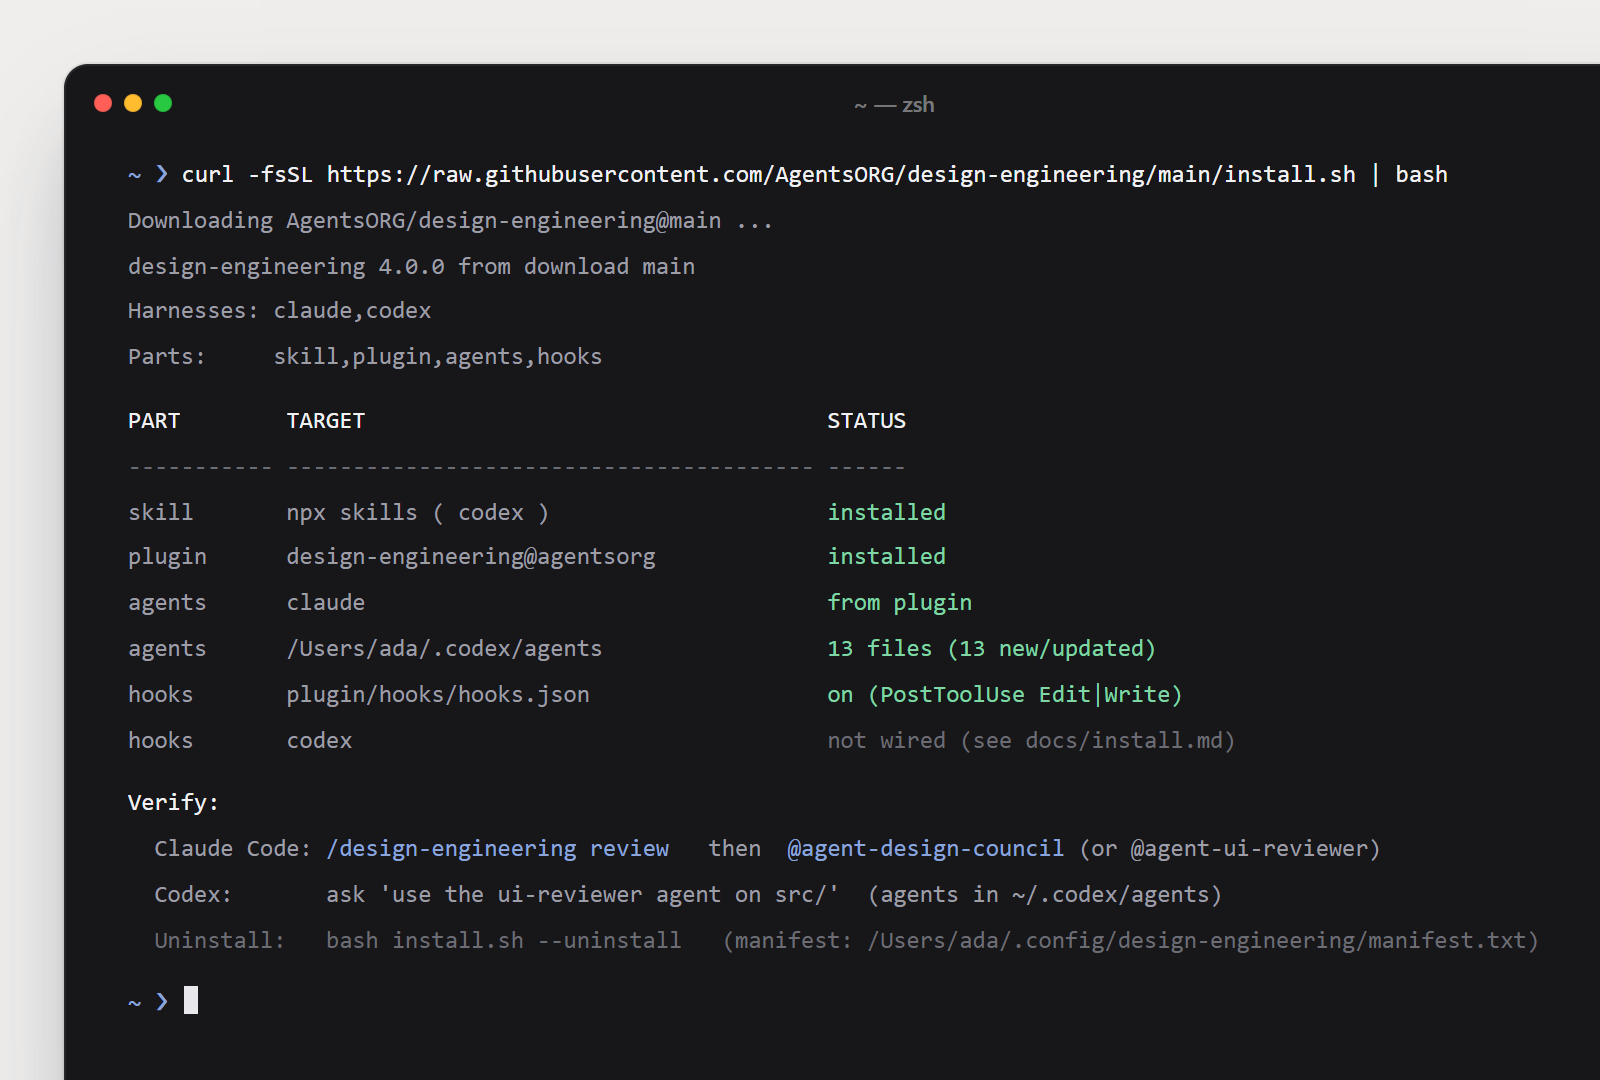
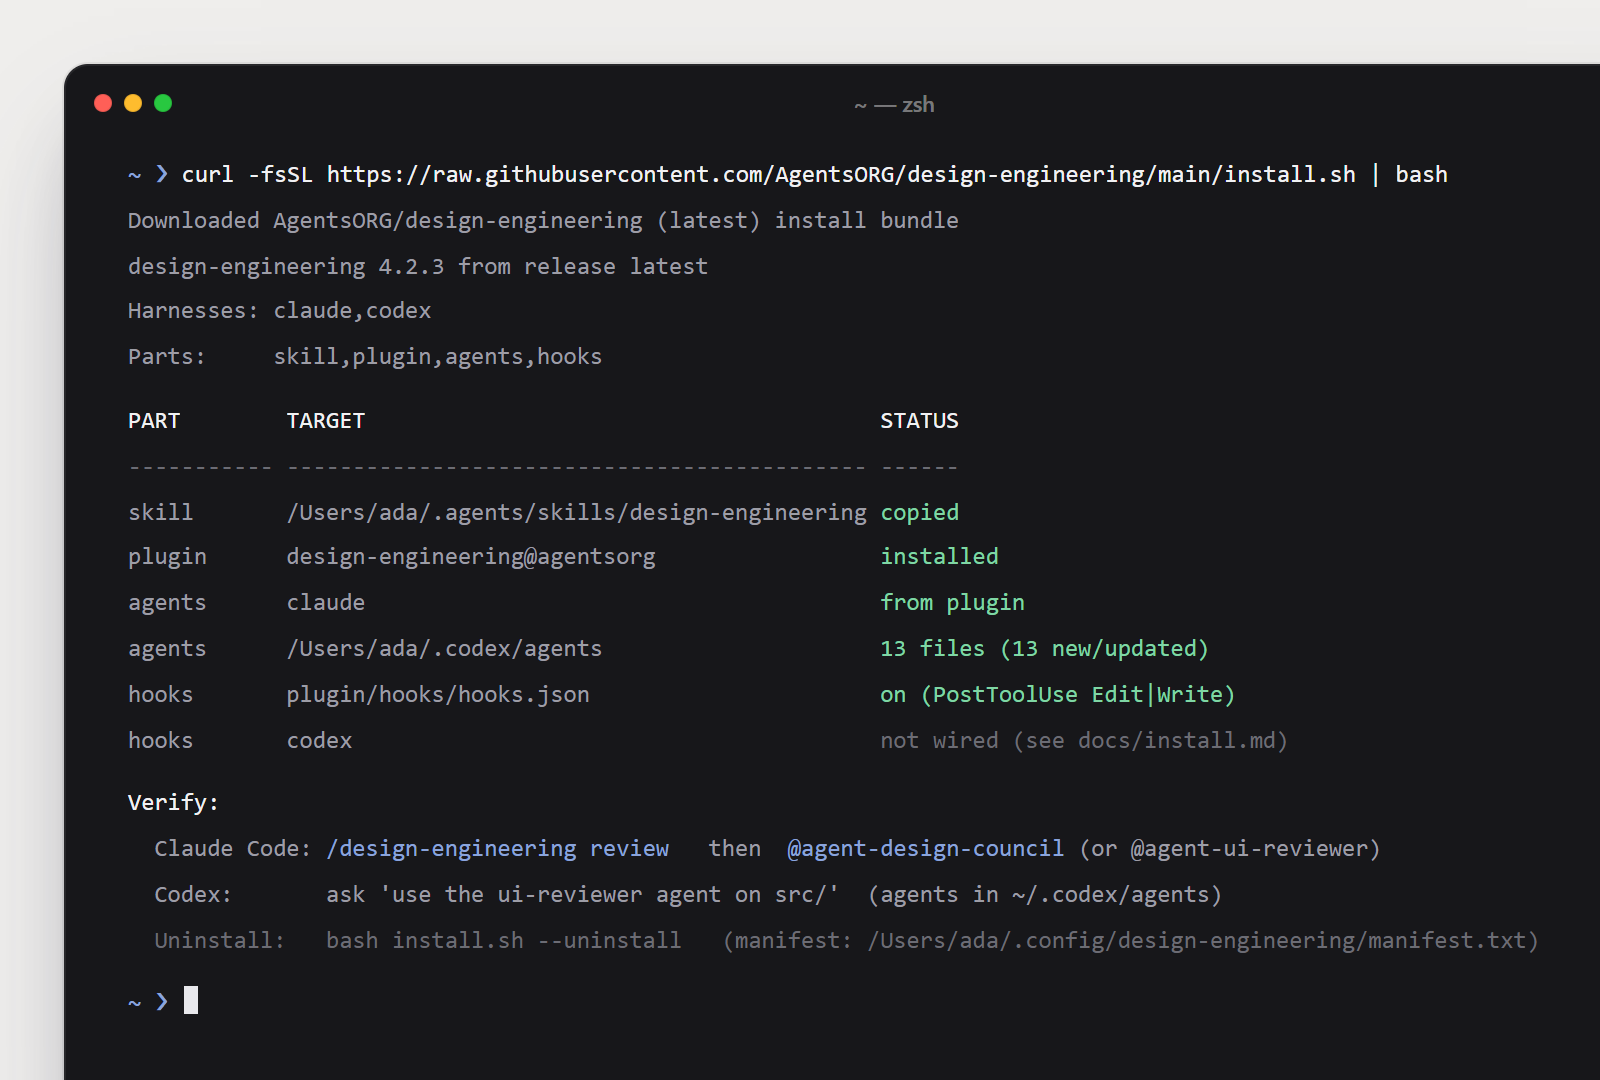
4.2.3: shadcn install docs, current installer still, one-step plugin line, dead links (#22)

diff --git a/docs/readme/stage/examples/de-install/index.tsx b/docs/readme/stage/examples/de-install/index.tsx
@@ -10,9 +10,9 @@ import '../_de/de.css'
 // Corner bleed: inset top-left, off the right; the window ends a gutter
 // under the caret.
 const CMD = 'curl -fsSL https://raw.githubusercontent.com/AgentsORG/design-engineering/main/install.sh | bash'
-const row = (p: string, t: string, s = '') => `${p.padEnd(11)} ${t.padEnd(40)} ${s}`
+const row = (p: string, t: string, s = '') => `${p.padEnd(11)} ${t.padEnd(44)} ${s}`
 const ROWS: [string, string, string][] = [
-  ['skill', 'npx skills ( codex )', 'installed'],
+  ['skill', '/Users/ada/.agents/skills/design-engineering', 'copied'],
   ['plugin', 'design-engineering@agentsorg', 'installed'],
   ['agents', 'claude', 'from plugin'],
   ['agents', '/Users/ada/.codex/agents', '13 files (13 new/updated)'],
@@ -27,13 +27,13 @@ export default function Install() {
         <Window chrome="terminal" title="~ — zsh" className="de-win" style={{ width: 830, height: 560 }}>
           <div className="ss-term de-term">
             <Prompt path="~">{CMD}</Prompt>
-            <div>Downloading AgentsORG/design-engineering@main ...</div>
-            <div>design-engineering 4.0.0 from download main</div>
+            <div>Downloaded AgentsORG/design-engineering (latest) install bundle</div>
+            <div>design-engineering 4.2.3 from release latest</div>
             <div>Harnesses: claude,codex</div>
             <div>Parts:     skill,plugin,agents,hooks</div>
             <div className="gap" />
             <div className="w">{row('PART', 'TARGET', 'STATUS')}</div>
-            <div className="dim">{row('-'.repeat(11), '-'.repeat(40), '-'.repeat(6))}</div>
+            <div className="dim">{row('-'.repeat(11), '-'.repeat(44), '-'.repeat(6))}</div>
             {ROWS.map(([p, t, s], i) => (
               <div key={i}>{row(p, t)}<span className={s.startsWith('not') ? 'dim' : 'ok'}>{s}</span></div>
             ))}

diff --git a/docs/install.md b/docs/install.md
@@ -33,7 +33,7 @@ curl -fsSL https://raw.githubusercontent.com/AgentsORG/design-engineering/main/i
 | `--with-companions` | `-WithCompanions` | Also install the Agentation skill |
 | `--uninstall` | `-Uninstall` | Remove what a previous run installed |
 
-By default the installer downloads the latest release's install bundle (`design-engineering-install.zip`, about 1 MB: the skill, agents, hooks and manifests) and copies the skill from it, so it never clones the whole repository. Pin a release with `DE_REF=v4.2.1` (`$env:DE_REF = 'v4.2.1'` in PowerShell), or use a branch with `DE_REF=main`, which downloads the full repo snapshot. Set `DE_USE_SKILLS_CLI=1` to install the skill through `npx skills` instead. Run either script from a checkout and it installs that checkout instead of downloading.
+By default the installer downloads the latest release's install bundle (`design-engineering-install.zip`, about 1 MB: the skill, agents, hooks and manifests) and copies the skill from it, so it never clones the whole repository. Pin a release with `DE_REF=v4.2.3` (`$env:DE_REF = 'v4.2.1'` in PowerShell), or use a branch with `DE_REF=main`, which downloads the full repo snapshot. Set `DE_USE_SKILLS_CLI=1` to install the skill through `npx skills` instead. Run either script from a checkout and it installs that checkout instead of downloading.
 
 The installer detects a harness by its CLI on `PATH` or its config folder in your home directory. It is idempotent: a second run changes only what differs. Before it replaces a file it did not write, it copies the original to `~/.config/design-engineering/backups/`. It backs up `settings.json` next to itself before merging the hook. It never reads or writes credentials. Everything it writes is listed in `~/.config/design-engineering/manifest.txt`, and `--uninstall` removes exactly those entries and puts back the copies it backed up.
 
@@ -75,7 +75,7 @@ claude plugin marketplace add AgentsORG/design-engineering
 claude plugin install design-engineering@agentsorg -s user
 ```
 
-Inside a session the same thing is `/plugin marketplace add AgentsORG/design-engineering` then `/plugin install design-engineering@agentsorg`. To pin a release, add the marketplace as `https://github.com/AgentsORG/design-engineering.git#v4.0.0`.
+Inside a session it is one step on Claude Code 2.1.275 or later: `/plugin install design-engineering --marketplace AgentsORG/design-engineering` (or `/plugin marketplace add AgentsORG/design-engineering`, then `/plugin install design-engineering@agentsorg`). To pin a release, add the marketplace as `https://github.com/AgentsORG/design-engineering.git#v4.0.0`.
 
 ### Agents per harness
 
@@ -118,6 +118,19 @@ claude mcp add --transport http -s user design-engineering http://localhost:2000
 ```
 
 For Codex, Cursor, Gemini CLI and OpenCode, add an HTTP MCP server named `design-engineering` with the URL `http://localhost:2000/eve/v1/mcp` in that harness's MCP settings.
+
+### shadcn registry
+
+The same pieces ship as shadcn registry items, for projects that already use the shadcn CLI. Each item installs to the same place the installer uses (the skill to `~/.agents/skills/design-engineering/`, the agents to `~/.claude/agents/`, the starter contract to `~/.design`):
+
+```bash
+npx shadcn@latest add https://raw.githubusercontent.com/AgentsORG/design-engineering/main/registry/r/design-engineering.json
+npx shadcn@latest add https://raw.githubusercontent.com/AgentsORG/design-engineering/main/registry/r/design-engineering-agents.json
+npx shadcn@latest add https://raw.githubusercontent.com/AgentsORG/design-engineering/main/registry/r/design-engineering-design-file.json
+npx shadcn@latest add https://raw.githubusercontent.com/AgentsORG/design-engineering/main/registry/r/design-engineering-motion.json
+```
+
+`design-engineering-motion` is a theme item: the motion tokens (easing curves and durations) as CSS variables. Before 4.1.0 these items lived under `/main/r/`; that path no longer resolves.
 
 ### Companions
 

diff --git a/README.md b/README.md
@@ -36,9 +36,11 @@ curl -fsSL https://raw.githubusercontent.com/AgentsORG/design-engineering/main/i
 irm https://raw.githubusercontent.com/AgentsORG/design-engineering/main/install.ps1 | iex
 ```
 
-![A terminal running the one-line installer on a machine with Claude Code and Codex: it downloads the repo, prints a PART, TARGET and STATUS summary (skill, plugin, agents and hook installed; the Codex hook not wired), then how to verify each harness and how to uninstall](docs/readme/img/de-install.png)
+![A terminal running the one-line installer on a machine with Claude Code and Codex: it downloads the latest release's install bundle, prints a PART, TARGET and STATUS summary (skill copied; plugin, agents and hook installed; the Codex hook not wired), then how to verify each harness and how to uninstall](docs/readme/img/de-install.png)
 
-Add `--dry-run` to see every change first (`-DryRun` on Windows). The installer is idempotent, backs up any settings file before it edits one, never touches credentials, and `--uninstall` removes exactly what it wrote. It downloads only the latest release's ~1 MB install bundle; pin a release with `DE_REF=v4.2.1`. The flags, every path it writes and the manual steps for each harness, the plugin marketplace and the shadcn registry are in [docs/install.md](docs/install.md).
+Add `--dry-run` to see every change first (`-DryRun` on Windows). The installer is idempotent, backs up any settings file before it edits one, never touches credentials, and `--uninstall` removes exactly what it wrote. It downloads only the latest release's ~1 MB install bundle; pin a release with `DE_REF=v4.2.3`. The flags, every path it writes and the manual steps for each harness, the plugin marketplace and the shadcn registry are in [docs/install.md](docs/install.md).
+
+**Claude Code plugin only.** Inside Claude Code 2.1.275 or later: `/plugin install design-engineering --marketplace AgentsORG/design-engineering`.
 
 Install the skill one way only. skills.sh gives you `/design-engineering`; the plugin gives you `/design-engineering:design-engineering`. With both, it is listed twice.
 
@@ -55,8 +57,8 @@ Install and verify the design-engineering skill and agents for this machine.
 2. If the plan only touches the skill, agent, hook and backup paths it lists, run it again
    without the dry-run flag (add --yes / -Yes so it does not prompt).
 3. Verify, and report each line as pass or fail:
-   - SKILL.md exists in the harness's skill folder (~/.agents/skills, ~/.claude/skills,
-     ~/.gemini/skills or ~/.config/opencode/skills, under design-engineering/)
+   - SKILL.md exists in the harness's skill folder (~/.agents/skills, ~/.gemini/skills or
+     ~/.config/opencode/skills, under design-engineering/; in Claude Code it comes from the plugin)
    - /design-engineering with no arguments prints the verb menu
    - the agents are listed: design-council, design-judge, design-grader, ui-reviewer, motion-auditor
      (Claude Code: /agents, from the plugin; Codex: ~/.codex/agents; Cursor: ~/.cursor/agents;

diff --git a/CHANGELOG.md b/CHANGELOG.md
@@ -6,6 +6,16 @@ All notable changes to this skill are recorded here. Format follows [Keep a Chan
 
 *Nothing yet.*
 
+## [4.2.3] — 2026-11-07
+
+### Fixed
+
+- **`docs/install.md` gains the shadcn registry section the README pointed to**, with the four item URLs under `/main/registry/r/` and a note that the pre-4.1.0 `/main/r/` path no longer resolves.
+- **The installer still in the README shows what it prints today**: the latest release's install bundle and the skill copied from it, not the 4.0.0 repo download.
+- **Claude Code's one-step plugin install** (`/plugin install design-engineering --marketplace AgentsORG/design-engineering`) is in the README and `docs/install.md`, as `claude plugin validate` advises.
+- **Two dead links**: the `plugins` CLI now links to its npm page (its old GitHub repo is gone), and a v1.2.1 reference points at the tag instead of a commit URL that never resolved.
+- The "Paste this into your coding agent" check no longer looks for the skill in `~/.claude/skills` when Claude Code gets it from the plugin.
+
 ## [4.2.2] — 2026-11-07
 
 ### Fixed
@@ -822,7 +832,7 @@ Integrates [index.how/to/articulate](https://index.how/to/articulate) — Emil K
 
 ### Added
 
-- **`.plugin/plugin.json`** — vendor-neutral manifest for `npx plugins add AgentsORG/design-engineering` ([vercel-labs/plugins](https://github.com/vercel-labs/plugins)).
+- **`.plugin/plugin.json`** — vendor-neutral manifest for `npx plugins add AgentsORG/design-engineering` ([the `plugins` CLI](https://www.npmjs.com/package/plugins)).
 - **`agents/`** (repo root) — six workflow subagents hoisted from `skills/design-engineering/agents/` so the plugins CLI and Cursor/Codex manifests discover them at install time.
 - **`commands/`** — six slash workflows: `review-ui`, `motion-audit`, `scan-ai-tells`, `agentation-fix`, `apply-design-md`, `fork-pov`.
 
@@ -973,7 +983,7 @@ The old URL (`AgentsORG/design-engineering`) auto-redirects via GitHub, so exist
 
 ### Fixed
 
-- `template/SKILL.md` renamed to `template/TEMPLATE.md`. The skills.sh CLI globs `**/SKILL.md` across the repo when discovering installable skills, so the template file was appearing as a second skill candidate (`your-skill-name`) in the install picker. Renaming sidesteps the glob while keeping the starter content discoverable to contributors. ([#install-picker-fix](https://github.com/AgentsORG/design-engineering/commit/v1.2.1))
+- `template/SKILL.md` renamed to `template/TEMPLATE.md`. The skills.sh CLI globs `**/SKILL.md` across the repo when discovering installable skills, so the template file was appearing as a second skill candidate (`your-skill-name`) in the install picker. Renaming sidesteps the glob while keeping the starter content discoverable to contributors. ([#install-picker-fix](https://github.com/AgentsORG/design-engineering/tree/v1.2.1))
 - `.github/workflows/lint.yml` required-files check updated to reference `template/TEMPLATE.md`.
 - README file tree and `marketplace.json` version updated accordingly.
 

diff --git a/AGENTS.md b/AGENTS.md
@@ -162,7 +162,7 @@ This skill is indexed at [skills.sh/agentsorg/design-engineering/design-engineer
 Six manifests ship alongside the skills.sh registry entry:
 
 - **`plugin.json`** (repo root) — the **canonical** manifest, conforming to the [Agent Plugins specification v1.0.0](https://agent-plugins.org/) (`$schema: https://agent-plugins.org/schemas/1.0.0/plugin.schema.json`). Declares the portable core (`skills/`) implicitly and the client extensions explicitly under reverse-domain namespaces in `extensions`. Edit identity fields here first; mirror to the host manifests.
-- **`.plugin/plugin.json`** — vendor-neutral manifest for [vercel-labs/plugins](https://github.com/vercel-labs/plugins) (`npx plugins add AgentsORG/design-engineering`). The CLI translates `.plugin/` into per-host folders when missing.
+- **`.plugin/plugin.json`** — vendor-neutral manifest for [the `plugins` CLI](https://www.npmjs.com/package/plugins) (`npx plugins add AgentsORG/design-engineering`). The CLI translates `.plugin/` into per-host folders when missing.
 - **`.claude-plugin/plugin.json`** — Claude Code plugin metadata (name, description, version, author, homepage, repository, license) plus `agents` (an explicit list of `./plugin/agents/*.md` files; CI checks it matches the folder), `hooks` (`./plugin/hooks/hooks.json`) and `experimental.evals` (`./bench/plugin`). Omits a `skills` field — Claude Code auto-discovers the root `skills/` directory, which is why the plugin root stays the repo root.
 - **`.claude-plugin/marketplace.json`** — the `agentsorg` marketplace, one entry with `"source": "./"` so the repo doubles as its own marketplace. The Claude Code plugin is named `design-engineering` (display name AgentsORG Design Engineering) in the `agentsorg` marketplace, so it installs as `design-engineering@agentsorg` and its components are namespaced `design-engineering:*`; `renames` maps 3.3.0's `agentsorg` back to it. Add via `/plugin marketplace add AgentsORG/design-engineering`, then `/plugin install design-engineering@agentsorg`. Never rename it again without a new `renames` entry.
 - **`.codex-plugin/plugin.json`** — richer manifest with `keywords`, `skills: "./skills/"`, `agents: "./plugin/agents/"`, and an `interface` block (displayName, shortDescription, longDescription, developerName, category, capabilities, defaultPrompt, brandColor). Codex plugins document skills, MCP servers, apps and hooks but not agents, so the `agents` field is likely ignored: Codex custom agents are the TOML files in `plugin/harness/codex/agents/`, which the installer copies to `~/.codex/agents/`.

diff --git a/skills/design-engineering/SKILL.md b/skills/design-engineering/SKILL.md
@@ -5,7 +5,7 @@ license: MIT
 compatibility: Agent-agnostic. Pairs with Obsidian as a vault, Agentation for click-to-annotate review, and any coding agent that reads SKILL.md (Claude Code, Cursor, Codex, Windsurf, Aider, Cline, Gemini, 18+ via skills.sh).
 metadata:
   author: AgentsORG
-  version: "4.2.2"
+  version: "4.2.3"
   graph: true
   subagents: plugin/agents/
   soul: docs/SOUL.md
